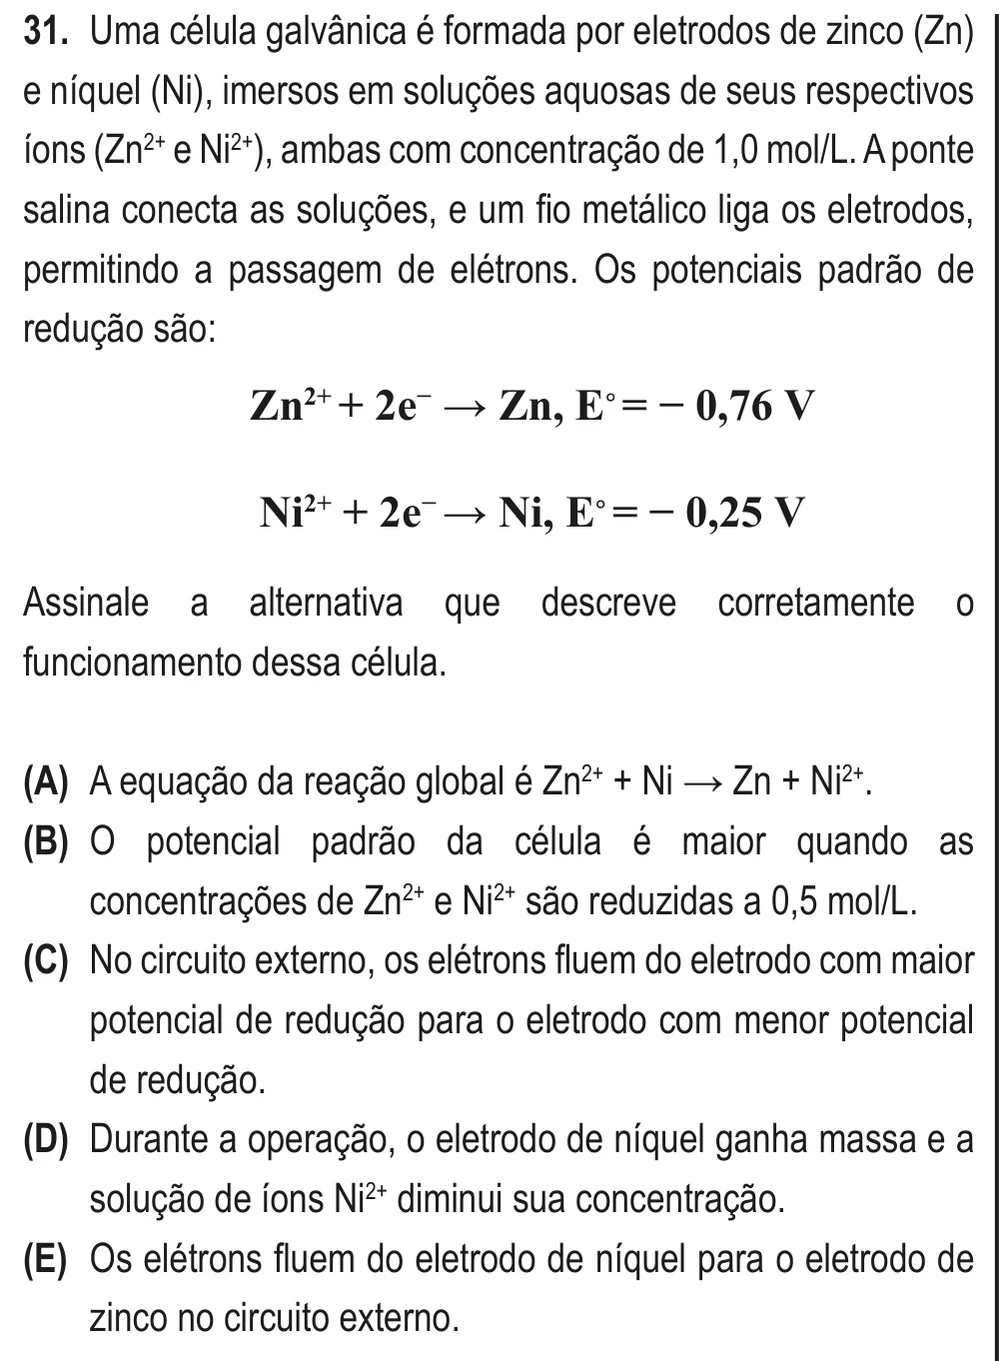
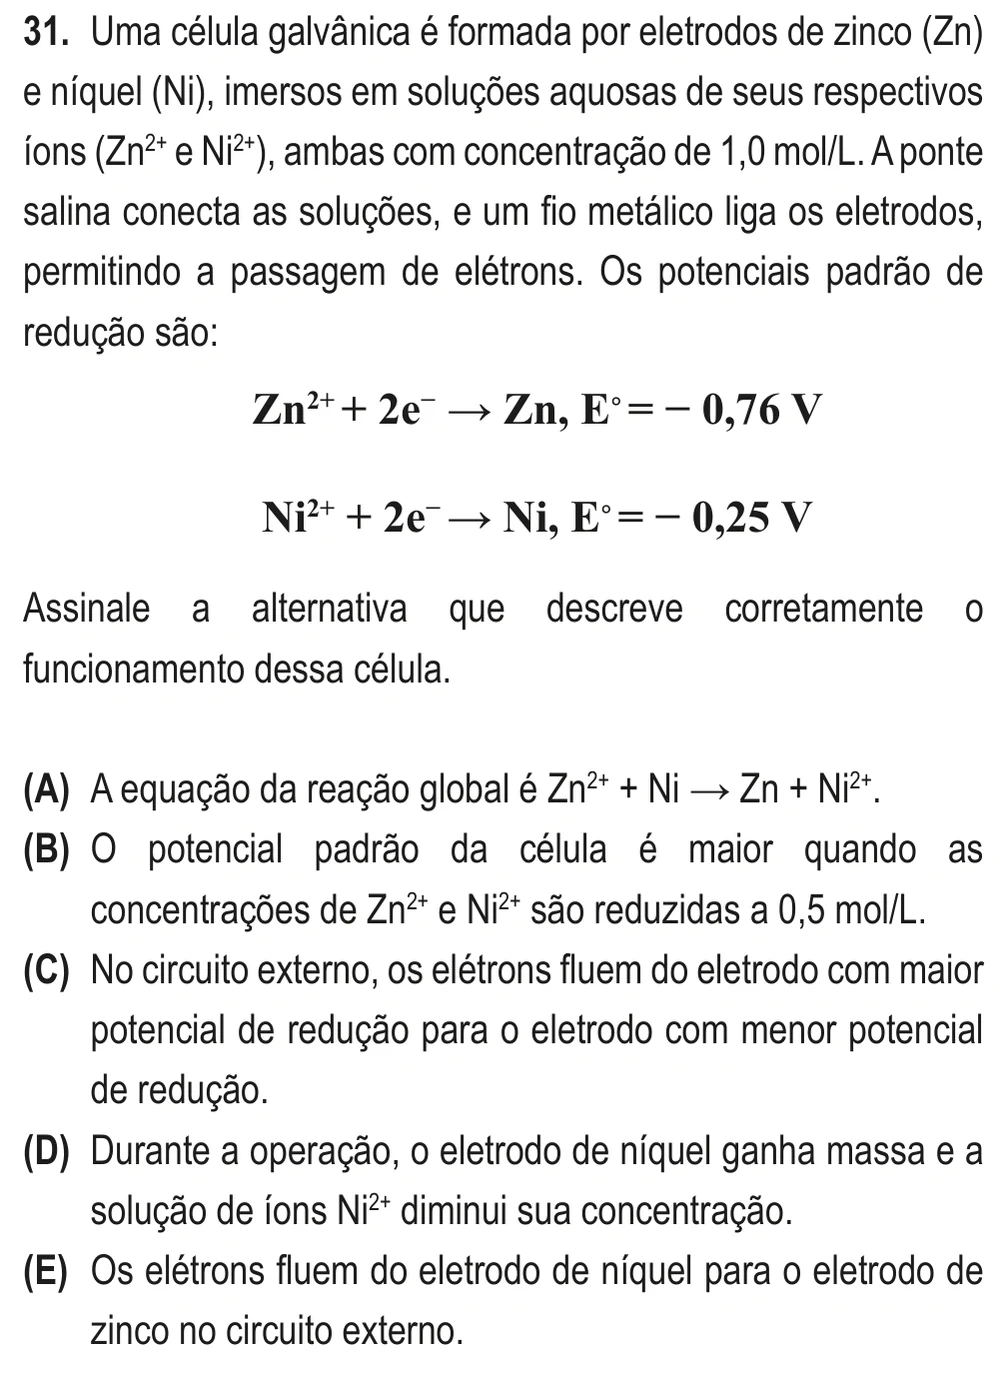
pendentes: prints refeitos do PDF oficial (Matemática e outras) em andamento
Claude-Session: https://claude.ai/code/session_01PveEKY2v3nNa3i6GFngYfE

diff --git a/docs/provas/prints-refeitos.md b/docs/provas/prints-refeitos.md
@@ -197,3 +197,19 @@ Pedido: "Tira qualquer referência ao curso no print." Auditoria de 13/11/2026:
 - **Os prints**: OCR (tesseract, por) de todos os 2.875, procurando OBJETIVO/curso-objetivo/objetivo.br, Etapa, Anglo, Poliedro, Bernoulli, qConcursos, Estratégia e "Resolução …" (padrão tolerante a erro de OCR, calibrado com um "OBJETIVO" cinza de 16 px colado num print de teste). Nenhum print tem marca de cursinho (o único achado, unesp-2022 q2, é a alternativa "(A) objetivo."). Nenhuma alternativa marcada: os cadernos não são os comentados.
 - **Conferência visual**: 20 prints de 20 provas diferentes (inclusive as de 2020/2021, cujo PDF tem "Curso Objetivo" no título) abertos um a um: sem logo, cabeçalho, rodapé, marca d'água ou resposta marcada.
 - **Resultado**: nenhum print precisou ser cortado, apagado ou refeito; nada ficou para revisão. O risco de direito de uso dessas cópias (caderno da Vunesp baixado do site do cursinho) continua registrado em `docs/provas/origem-vunesp.md` para decisão do dono.
+| 2026-11-19 | unespar-2025 | 54 | Pbc716955 | 1000x377 | 1000x353 | 32: 22,621,573,815 |
+| 2026-11-19 | ufu-2023 | 68 | P78a66ef3 | 1000x222 | 1000x240 | 31: 24,672,572,803 |
+| 2026-11-19 | pucpr-2025-2 | 31 | P53f16b0b | 1000x322 | 1000x353 | 19: 24,228,580,424 (fundo ciano do caderno-gabarito apagado) |
+| 2026-11-19 | pucpr-2024-2 | 36 | P528013c1 | 917x737 | 1000x716 | 18: 24,344,580,742 (fundo ciano do caderno-gabarito apagado) |
+| 2026-11-19 | ita-2025 | 3 | Pc99e3797 | 922x98 | 1000x130 | 2: 50,498,545,562 |
+| 2026-11-19 | fatec-2025-1 | 26 | P8de70adc | 402x384 | 1000x643 | 8: 32,94,296,264 |
+| 2026-11-19 | fuvest-2021 | 84 | Pa91b52ff | 545x698 | 1000x2266 | 24: 30,40,292,298; 24: 302,38,565,376 |
+| 2026-11-19 | ufpr-2021 | 47 | P5a76aa41 | 1000x183 | 1000x256 | 12: 26,624,560,760 |
+| 2026-11-19 | pucpr-2026-2 | 35 | Pda63d44e | 1000x257 | 1000x273 | 16: 22,600,580,752 |
+| 2026-11-19 | fatec-2025-1 | 31 | P49c155b4 | 502x797 | 1000x1361 | 10: 30,94,299,460 |
+| 2026-11-19 | pucrio-2026 | 31 | Pba420dcb | 1000x340 | 1000x353 | 7: 26,74,572,266 |
+| 2026-11-19 | upe-ssa3-2026 | 54 | Pf56e32e8 | 1000x300 | 1000x354 | 5: 40,56,552,112; 5: 40,116,552,138; 5: 40,468,552,570 |
+| 2026-11-19 | ufpr-2020 | 18 | Pbfde8575 | 1000x230 | 1000x283 | 7: 40,222,572,372 (recorte à mão: fim da q17 à esquerda da figura apagado; marca ► do gabarito apagada e "d)" realinhado; a figura agora tem os rótulos y e B) |
+| 2026-11-19 | ufjf-pism3-2022 | 11 | Pd1fa689a | 1000x1365 | 1000x867 | 11: 24,124,571,598 |
+| 2026-11-19 | unimontes-paes3-2020 | 17 | Pc481e226 | 1000x455 | 1000x490 | 11: 33,418,563,677 (caderno 3 do PAES 2020, arquivo do pacote vestibular.brasilescola.uol.com.br/baixar/47463; recorte à mão com render() do refaz_print, porque o link do prova.json é a página da Coteps) |
+| 2026-11-19 | fatec-2025-1 | 31 | P49c155b4 | 1000x1361 | 1000x1374 | 10: 30,94,296,460 |
